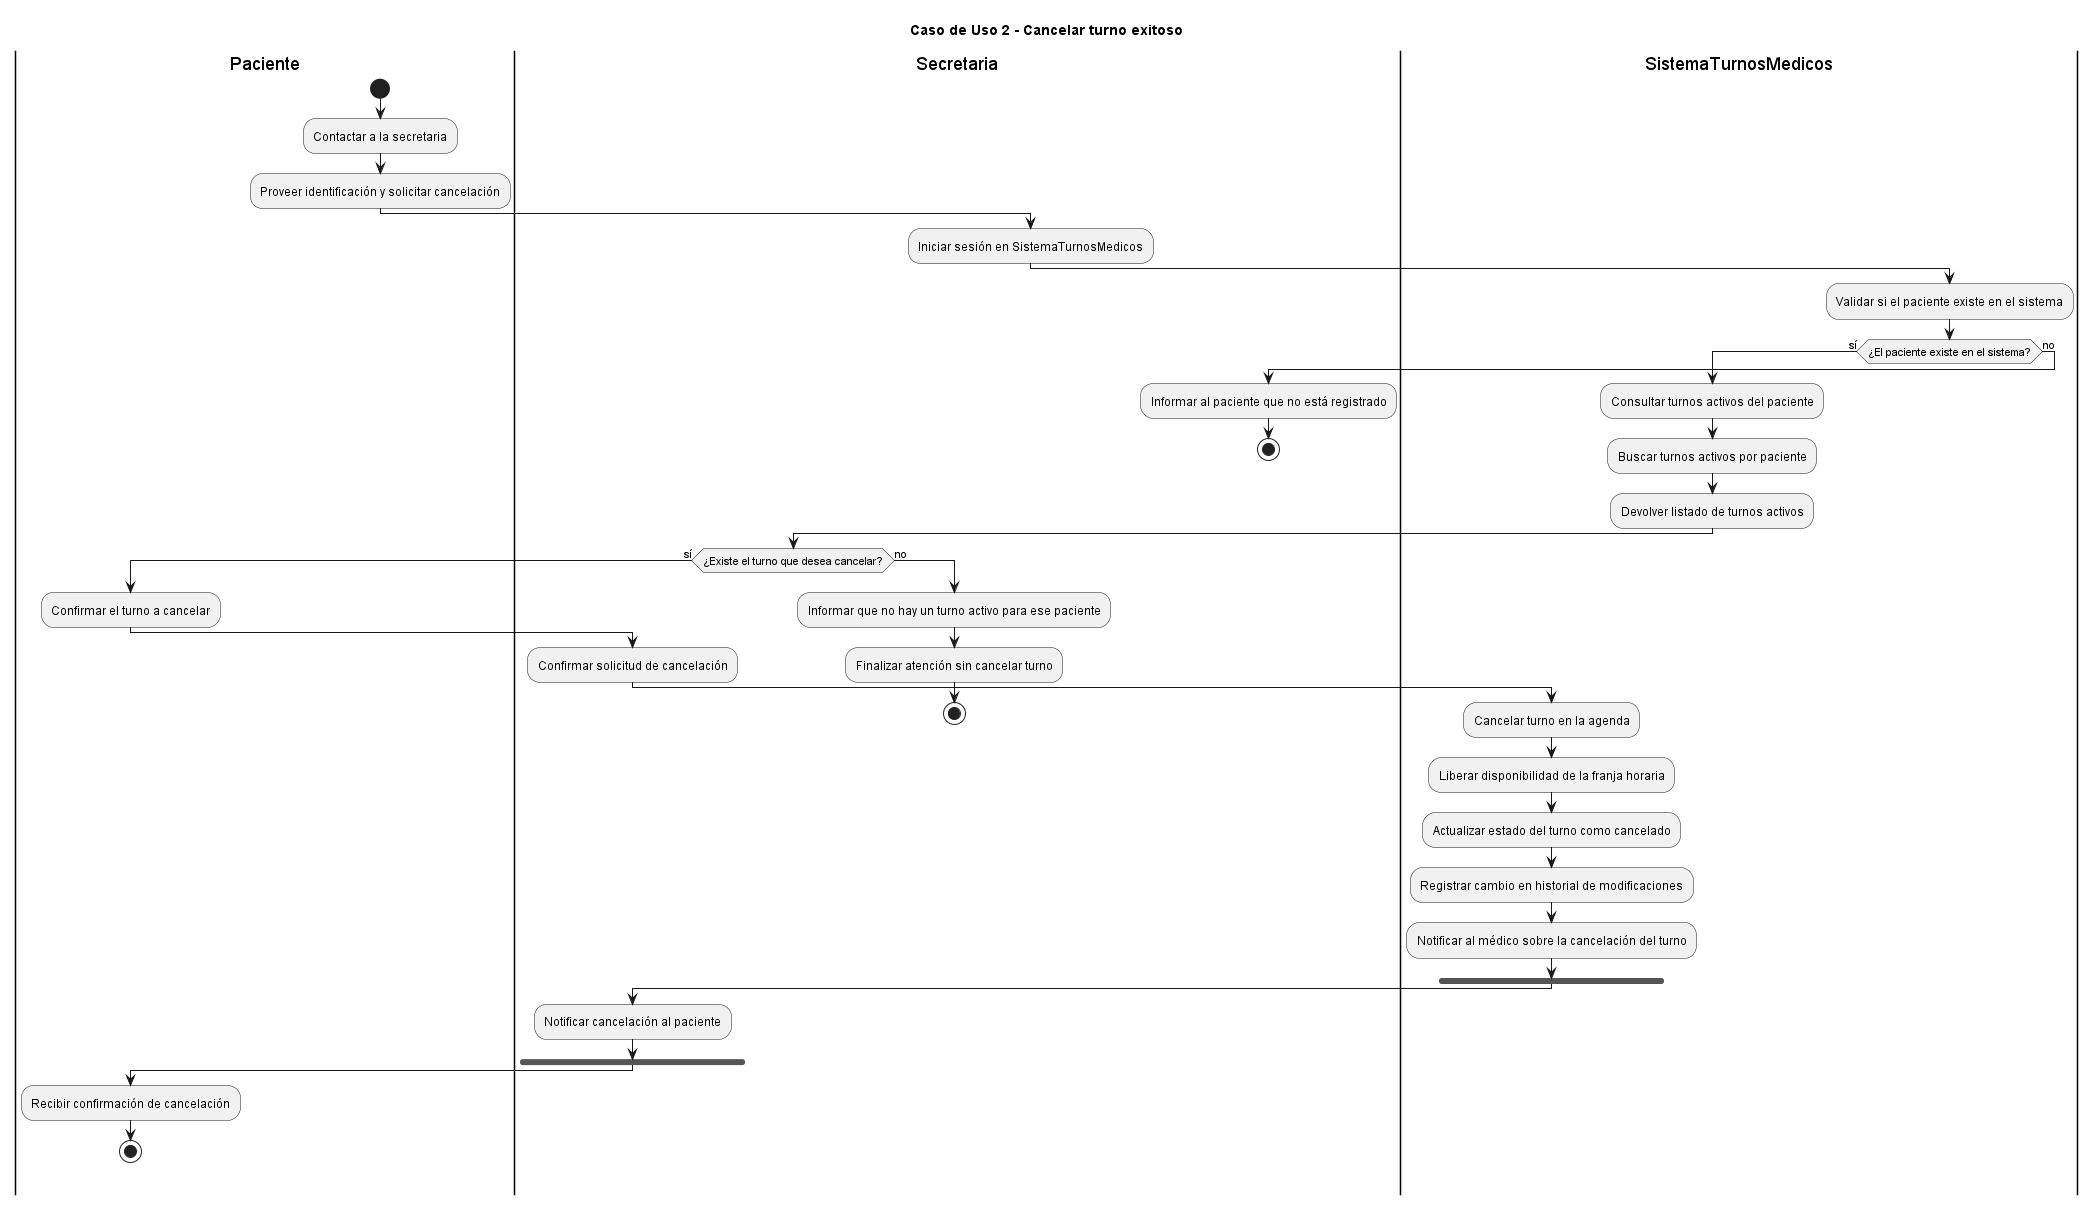
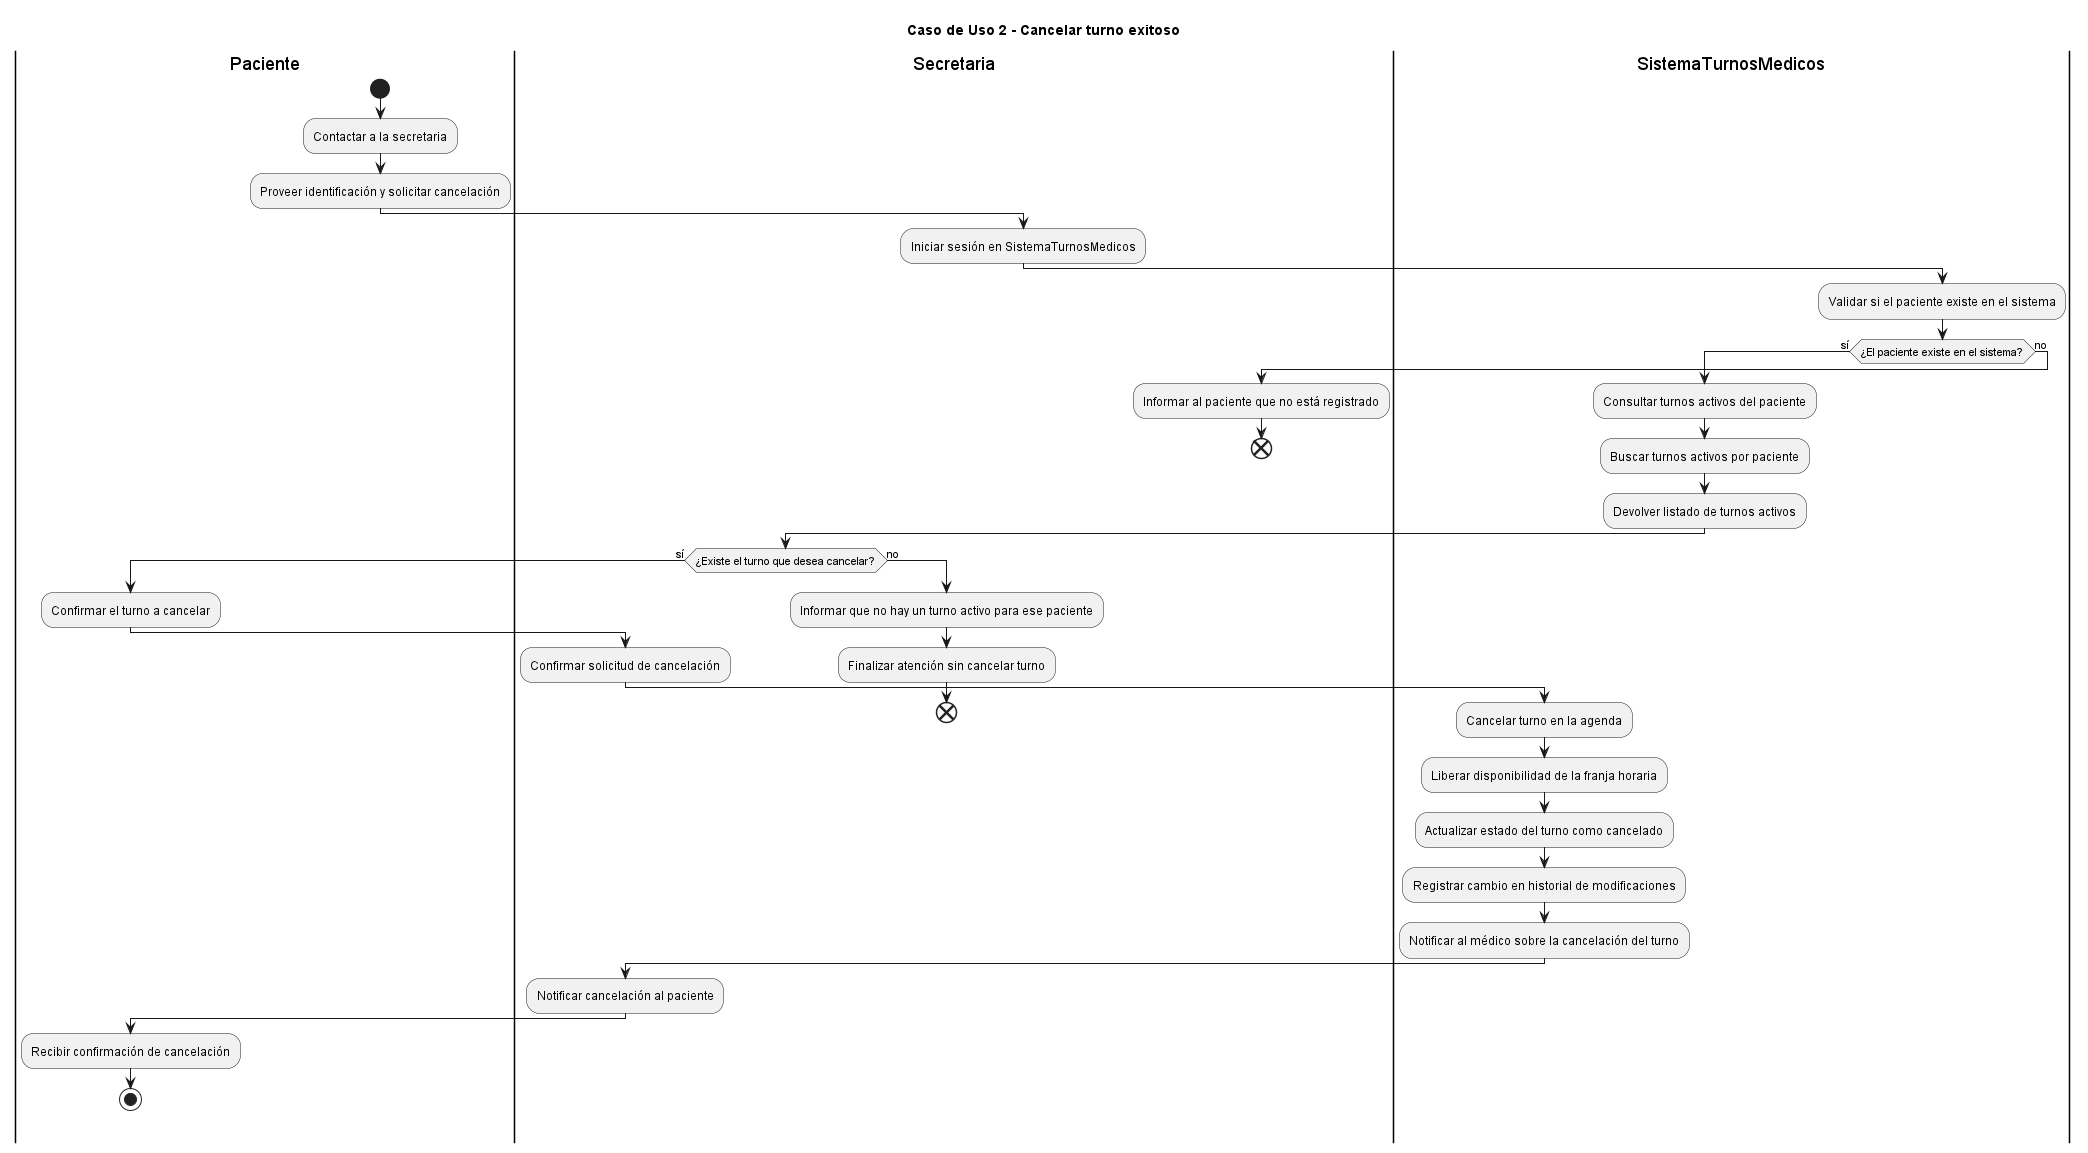
Merge pull request #97 from FacundoGuiraldes/fix/correccion-puml-caso-de-uso
Fix: realizo las correciones de puml y  agrego 02-caso de uso

Pull request: Fix: realizo las correciones de puml y  agrego 02-caso de uso
🛠️ Fix: Correcciones de sintaxis de puml y agrego la actividad 2 eliminada
---

## 📂 Rama de trabajo

Nombre de la rama:
fix/correccion-puml-caso-de-uso

---

## 📝 Descripción del trabajo realizado

Se realizaron correcciones sobre el diagrama de actividades correspondiente al Caso de Uso 2 - Cancelar turno exitoso, a partir de las observaciones realizadas durante la revisión docente.

Los ajustes incluyeron:

- corrección del flujo de actividades y finalización del proceso,
- eliminación del uso incorrecto de fork en PlantUML,
- reorganización del flujo de notificaciones dentro del carril SistemaTurnosMedicos,
- normalización del uso de nodos stop y end,

Además, se recuperó y restauró un archivo .puml de la actividad 2 eliminado accidentalmente durante el proceso de integración de ramas y merge de Pull Requests.

---

## 🔗 Archivos modificados / agregados

04-actividad-cancelar-turno-02.puml
04-actividad-cancelar-turno-02.png
diagramas/02-casos-de-uso/02-caso-uso-cancelar-turno-02/02-caso-uso-cancelar-turno-02.puml.

### Documentación colaborativa
- changelog.md

---

## ✅ Checklist

- [x] Se corrigió la sintaxis y estructura del diagrama de actividades en PlantUML
- [x] Se eliminó el uso incorrecto de fork
- [x] Se reorganizó el flujo de notificaciones según las responsabilidades del sistema
- [x] Se corrigió la finalización del flujo de actividades (stop / end)
[…]

diff --git a/changelog.md b/changelog.md
@@ -14,6 +14,7 @@
 - [feature/doc-coord-repo-update-readme-md] Actualización integral del `README.md`: se reestructuró la navegación para cumplir con la auditoría de calidad de Copilot, integrando enlaces a todos los índices previos (A2, Parcial) y nuevos (A3). - @carolabenvenuto-uces (Documentador y Coordinador)
 - [feature/doc-coord-repo-update-readme-md] Actualización de la tabla de integrantes con los nuevos roles asignados para la Actividad N3. - @carolabenvenuto-uces (Documentador y Coordinador)
 - [fix/correccion-indices-readme-coordinador] Corrección de formato del índice de diagramas de actividades, reestructuración del `README.md` para asegurar coherencia conceptual del modelo dinámico y actualización de `diagramas/diagramasUML.md` con la complementariedad de modelos. PR: [#95](https://github.com/FacundoGuiraldes/SistemaTurnosMedicos/pull/95) - @carolabenvenuto-uces (Documentador y Coordinador) 
+- [fix/correccion-puml-caso-de-uso] correccion de la sintaxis de puml y restauración de actividad 2 caso de uso. PR: [#97](https://github.com/FacundoGuiraldes/SistemaTurnosMedicos/pull/97) - @caterinacerdan (Especialista en diagramas de actividades caso de uso 1 y 2)
 
 ## [Release Primer Parcial] - 2026-04-25
 ### Added